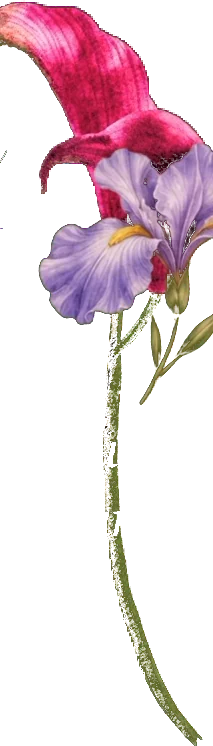
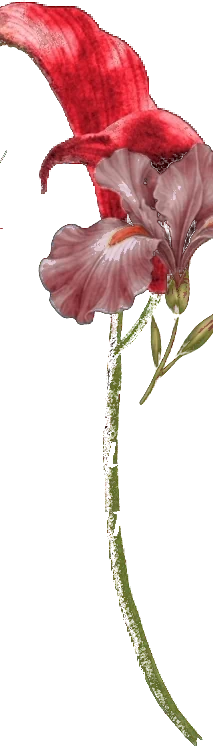
Flores nas cores do selo e mais flores

Changed region(s): [[0.0845, 0.0, 1.0, 0.4316], [0.9577, 0.4316, 1.0, 0.4625], [0.0, 0.0308, 0.0563, 0.0617]]

diff --git a/index.html b/index.html
@@ -10,8 +10,8 @@
 <meta property="og:title" content="Isis Paranho Viana · Formatura em Medicina">
 <meta property="og:description" content="Você é meu convidado especial. Toque para abrir o convite.">
 <meta property="og:url" content="https://isisparanho-debug.github.io/formatura/">
-<meta property="og:image" content="https://isisparanho-debug.github.io/formatura/og2.jpg">
-<meta property="og:image:secure_url" content="https://isisparanho-debug.github.io/formatura/og2.jpg">
+<meta property="og:image" content="https://isisparanho-debug.github.io/formatura/og3.jpg">
+<meta property="og:image:secure_url" content="https://isisparanho-debug.github.io/formatura/og3.jpg">
 <meta property="og:image:type" content="image/jpeg">
 <meta property="og:locale" content="pt_BR">
 <meta property="og:image:width" content="1200"><meta property="og:image:height" content="630">
@@ -135,6 +135,7 @@ img{display:block;max-width:none}
 /* ---------- PRESENTES ---------- */
 #presentes{background:repeating-linear-gradient(90deg,var(--stripe) 0 11px,#f4ecdf 11px 22px);padding:26px 11px}
 .gpanel{background:var(--green);padding:74px 16px 40px;position:relative;text-align:center;color:#efe6d4}
+.gpanel{overflow:hidden}
 .gpanel h2{font-size:clamp(40px,11.5vw,50px);margin:0;color:#f6eedf;line-height:1.2;position:relative;z-index:2}
 .gpanel .lead{font-style:italic;font-size:14.5px;line-height:1.65;margin:24px 4px 30px;color:#ddd2bd;position:relative;z-index:2}
 .gifts{display:grid;gap:16px;text-align:left;position:relative;z-index:2}
@@ -179,8 +180,8 @@ img{display:block;max-width:none}
 .pbtns .btn{width:auto;min-height:44px;padding:0 15px;gap:9px;font-size:11px;letter-spacing:.13em}
 
 /* ---------- FOOTER ---------- */
-footer{position:relative;background:var(--green2);text-align:center;color:#e9dfcc;padding:80px 20px 150px}
-footer .seal{width:92px;margin:0 auto 18px;filter:drop-shadow(0 4px 6px rgba(0,0,0,.35))}
+footer{position:relative;overflow:hidden;background:var(--green2);text-align:center;color:#e9dfcc;padding:80px 20px 150px}
+footer .seal{position:relative;z-index:2;width:92px;margin:0 auto 18px;filter:drop-shadow(0 4px 6px rgba(0,0,0,.35))}
 footer .script{font-size:38px;color:#efe5d2}
 footer p{margin:6px 0 0;font-style:italic;color:#cfc5b0}
 footer .caps{display:block;margin-top:18px;font-size:11px;letter-spacing:.3em;color:#9da08b}
@@ -314,6 +315,7 @@ footer .caps{display:block;margin-top:18px;font-size:11px;letter-spacing:.3em;co
   <img class="fl" src="img/tl.webp" alt="" style="left:-30px;top:-10px;width:28%;z-index:3">
   <img class="fl" src="img/lilac.webp" alt="" style="right:-34px;top:34%;width:22%;z-index:1">
   <img class="fl" src="img/bl.webp" alt="" style="left:-50px;top:62%;width:30%;z-index:1">
+  <img class="fl" src="img/calla.webp" alt="" style="right:-6px;top:-30px;width:18%;z-index:3;transform:rotate(14deg)">
   <div class="ticket rv">
     <svg class="cap" viewBox="0 0 360 58" preserveAspectRatio="none" aria-hidden="true">
       <path d="M4.5 60V40A18 18 0 0 0 22.5 22H128C152 22 156 4.5 180 4.5S208 22 232 22H337.5A18 18 0 0 0 355.5 40V60" fill="#f2e7d8" stroke="#9b3b08" stroke-width="9" vector-effect="non-scaling-stroke"/>
@@ -370,6 +372,7 @@ footer .caps{display:block;margin-top:18px;font-size:11px;letter-spacing:.3em;co
     <h2 class="script rv">Quer presentear<br>a nova médica?</h2>
     <p class="lead rv">Se quiser presentear a formanda, o valor fica a seu critério. O Pix vai direto para a conta dela.</p>
     <div class="gifts" id="gifts"></div>
+    <img class="fl" src="img/bl.webp" alt="" style="left:-16px;bottom:-6px;width:42%;z-index:1">
     <div class="physical rv"><div class="gico"><svg><use href="#i-gift"/></svg></div><div><h3>Presentes físicos também são bem-vindos</h3><p>Se preferir, você pode entregar o seu presente no dia da festa.</p></div></div>
   </div>
 </section>
@@ -388,9 +391,12 @@ footer .caps{display:block;margin-top:18px;font-size:11px;letter-spacing:.3em;co
   <div class="places" id="hoteis"></div>
   <div class="ghd rv"><svg><use href="#i-sciss"/></svg>Onde se arrumar</div>
   <div class="places" id="saloes"></div>
+  <img class="fl" src="img/br.webp" alt="" style="left:-6px;bottom:-10px;width:22%;z-index:0;opacity:.95">
 </section>
 
 <footer>
+  <img class="fl" src="img/tl.webp" alt="" style="left:-4px;top:-6px;width:30%">
+  <img class="fl" src="img/lilac.webp" alt="" style="right:-4px;top:-4px;width:30%">
   <img class="seal" src="img/seal.webp" alt="">
   <div class="script">Com carinho, Isis</div>
   <p>Obrigada por fazer parte desta história.</p>
